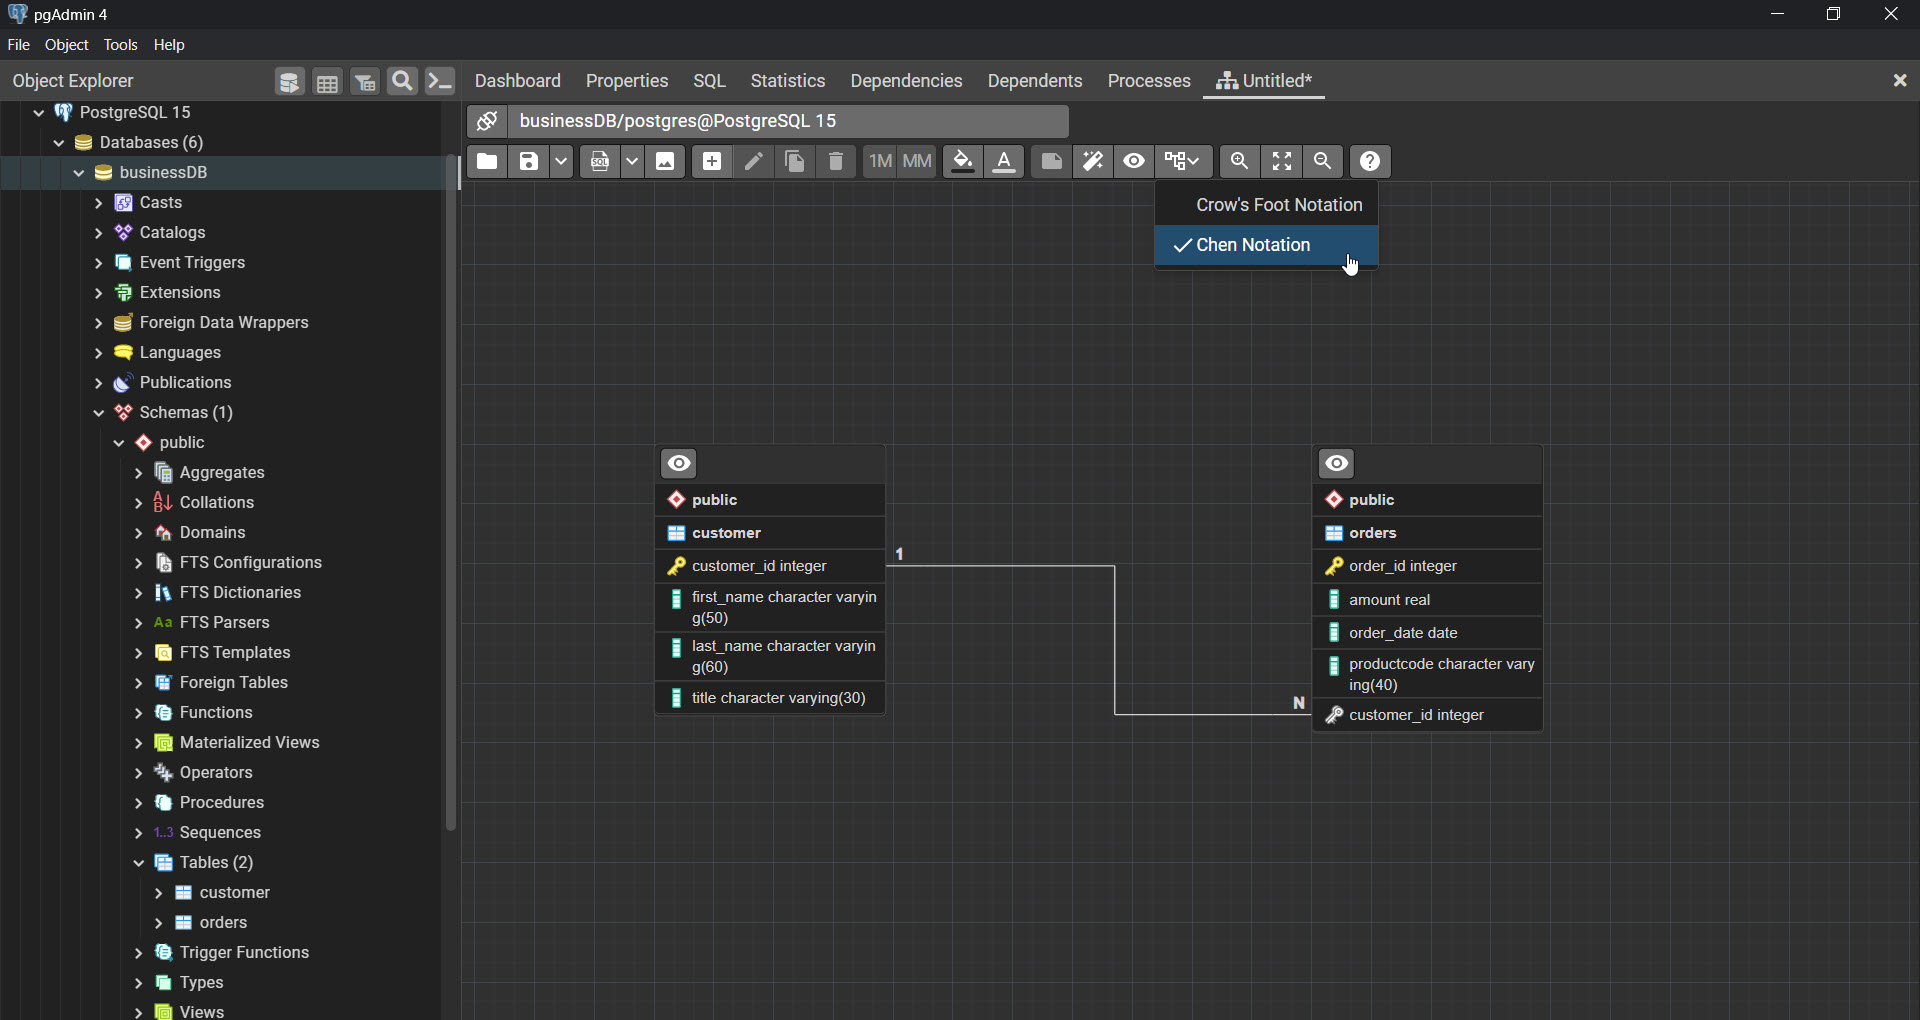
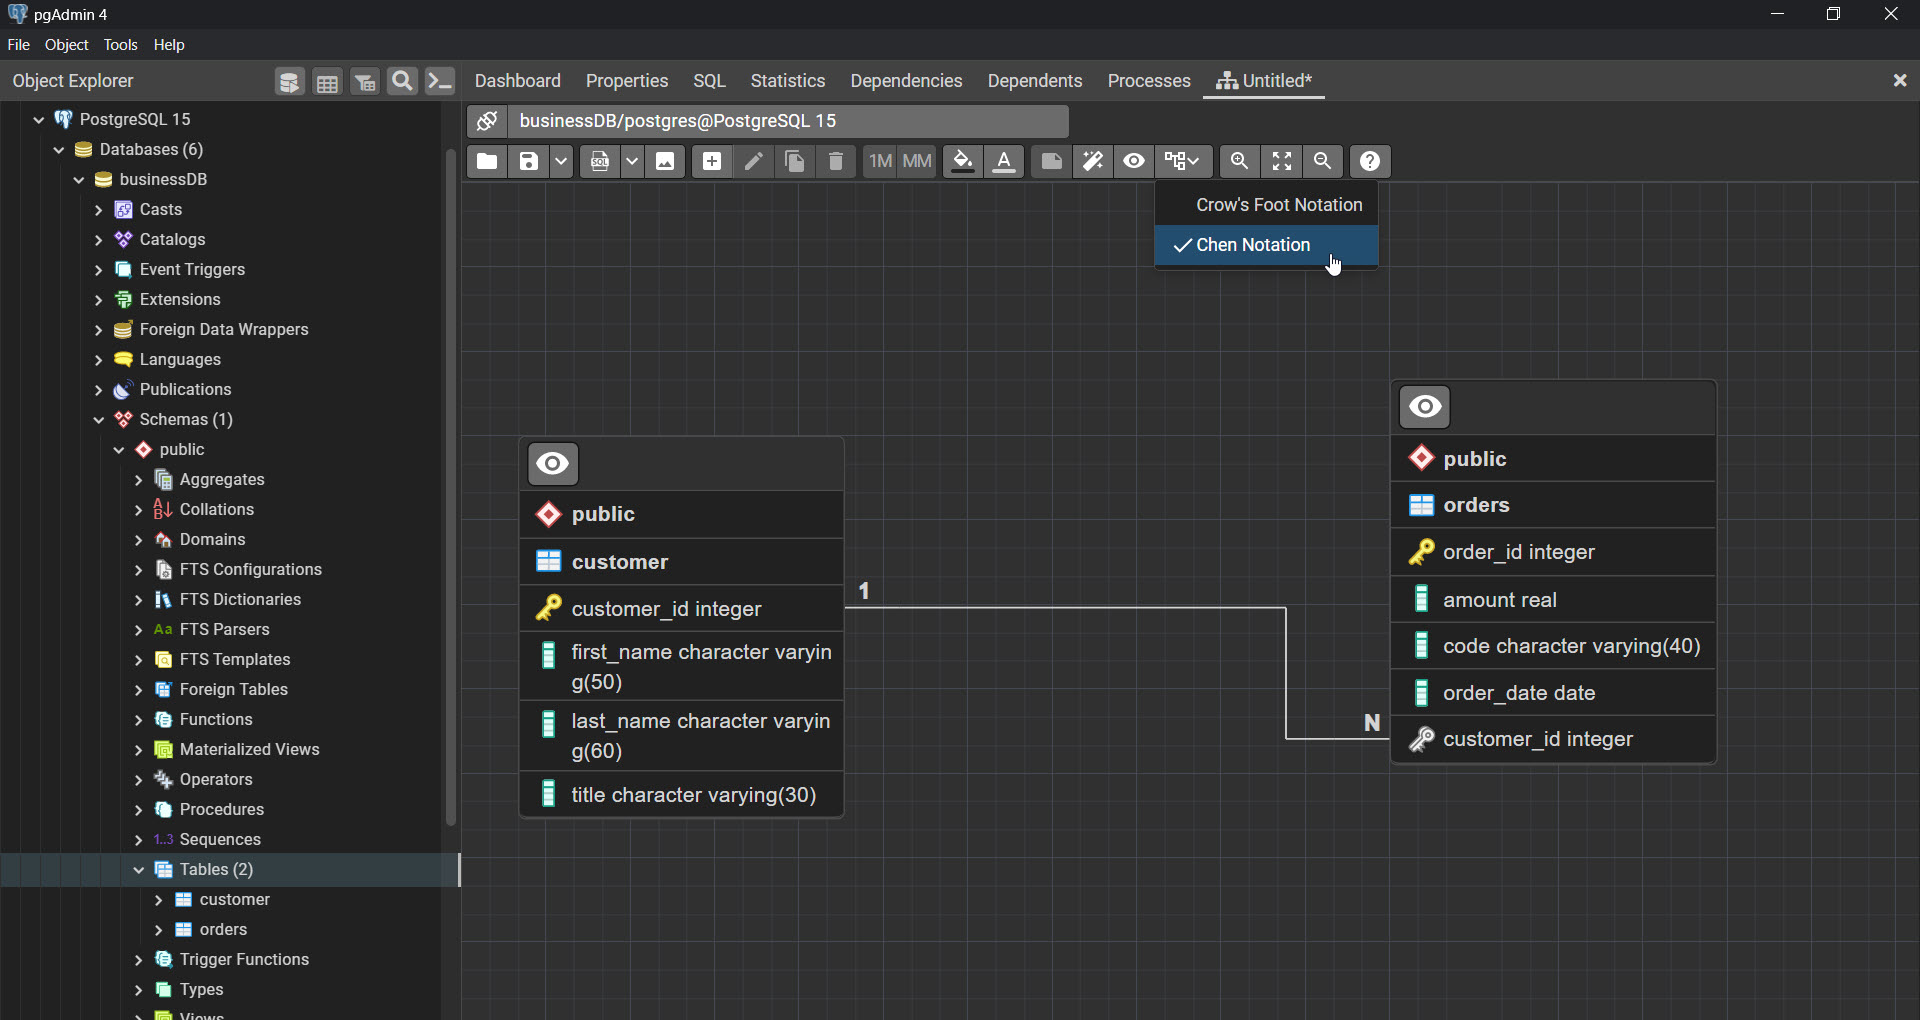
One To Many and Many To One Annotation
@OneToMany and @ManyToOne Annotation

diff --git a/_067_Hibernate_OneToMany_Annotation/src/main/java/com/mimaraslan/model/Orders.java b/_067_Hibernate_OneToMany_Annotation/src/main/java/com/mimaraslan/model/Orders.java
@@ -20,8 +20,8 @@ public class Orders {
     @Column(name = "ORDER_ID", nullable = false)
     private int id;
 
-    @Column(length = 40)
-    private String productCode;
+    @Column(name = "CODE", length = 40)
+    private String code;
 
     @Column(name = "AMOUNT", precision = 10, scale = 2)
     private float amount;
@@ -33,8 +33,8 @@ public class Orders {
     public Orders() {
     }
 
-    public Orders(String productCode, float amount, Date orderDate) {
-        this.productCode = productCode;
+    public Orders(String code, float amount, Date orderDate) {
+        this.code = code;
         this.amount = amount;
         this.orderDate = orderDate;
     }
@@ -55,12 +55,12 @@ public class Orders {
         this.id = id;
     }
 
-    public String getProductCode() {
-        return productCode;
+    public String getCode() {
+        return code;
     }
 
-    public void setProductCode(String productCode) {
-        this.productCode = productCode;
+    public void setCode(String productCode) {
+        this.code = code;
     }
 
     public float getAmount() {

diff --git a/_067_Hibernate_OneToMany_Annotation/src/main/java/com/mimaraslan/AppMain.java b/_067_Hibernate_OneToMany_Annotation/src/main/java/com/mimaraslan/AppMain.java
@@ -14,12 +14,12 @@ public class AppMain {
 
         Customer customer = new Customer();
         customer.setTitle("Dr.");
-        customer.setFirstName("Caner");
-        customer.setLastName("Öksüz");
+        customer.setFirstName("Mehmet");
+        customer.setLastName("Caner");
 
-        Orders order1 = new Orders("Kayısı", 254.223F, new Date());
-        Orders order2 = new Orders("Elma", 173.5234F, new Date());
-        Orders order3 = new Orders("Armut", 395.234F, new Date());
+        Orders order1 = new Orders("Kayısı", 100.11F, new Date());
+        Orders order2 = new Orders("Elma", 200.22F, new Date());
+        Orders order3 = new Orders("Armut", 300.33F, new Date());
 
         customer.getOrder().add(order1);
         customer.getOrder().add(order2);
